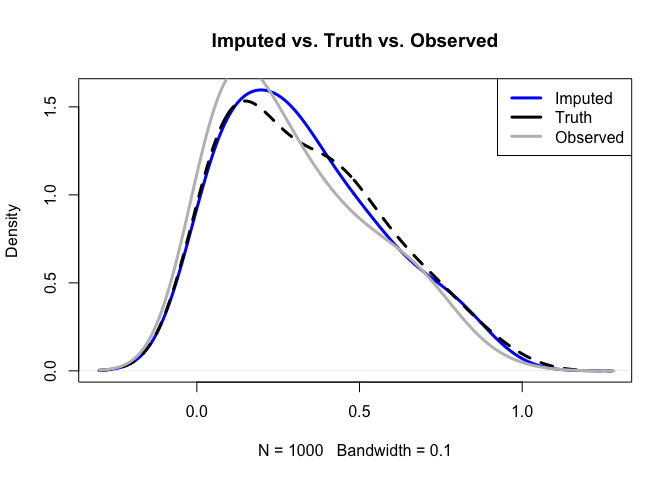
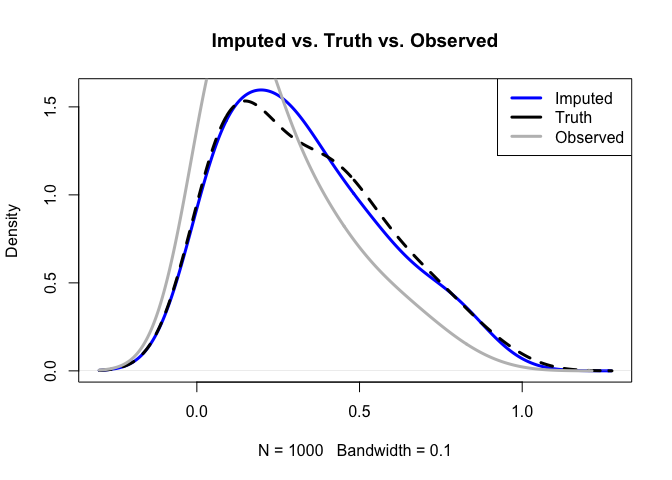
latex render

diff --git a/README.md b/README.md
@@ -60,7 +60,7 @@ $\boldsymbol Y_{ij}$ for $R^{2}_{ij}>0$.
   print("Missingness in Each Y_j:")
 #> [1] "Missingness in Each Y_j:"
   print(colMeans(R))
-#> [1] 0.513 0.491 0.491 0.496 0.498
+#> [1] 0.487 0.503 0.497 0.539 0.531
 
   # Now we'll create the study variables. Here we use gamma, t, and beta marginals 
   
@@ -97,27 +97,27 @@ $\boldsymbol Y_{ij}$ for $R^{2}_{ij}>0$.
       print("Summary of (Y^obs, R)")
 #> [1] "Summary of (Y^obs, R)"
       print(summary(Y_obs))
-#>       Y_j              Y_j               Y_j              Y_j        
-#>  Min.   :0.0034   Min.   : 0.4338   Min.   :0.0010   Min.   :0.0003  
-#>  1st Qu.:0.4099   1st Qu.: 2.2353   1st Qu.:0.1119   1st Qu.:0.1888  
-#>  Median :0.8528   Median : 3.0100   Median :0.2414   Median :0.4410  
-#>  Mean   :1.1917   Mean   : 3.2933   Mean   :0.2997   Mean   :0.7100  
-#>  3rd Qu.:1.5709   3rd Qu.: 4.1354   3rd Qu.:0.4652   3rd Qu.:1.0268  
-#>  Max.   :8.9102   Max.   :11.0629   Max.   :0.9814   Max.   :5.3285  
-#>  NA's   :513      NA's   :491       NA's   :491      NA's   :496     
-#>       Y_j                V6              V7              V8       
-#>  Min.   :-0.6383   Min.   :0.000   Min.   :0.000   Min.   :0.000  
-#>  1st Qu.: 1.3592   1st Qu.:0.000   1st Qu.:0.000   1st Qu.:0.000  
-#>  Median : 2.1056   Median :1.000   Median :0.000   Median :0.000  
-#>  Mean   : 2.4125   Mean   :0.513   Mean   :0.491   Mean   :0.491  
-#>  3rd Qu.: 3.1504   3rd Qu.:1.000   3rd Qu.:1.000   3rd Qu.:1.000  
-#>  Max.   :14.2760   Max.   :1.000   Max.   :1.000   Max.   :1.000  
-#>  NA's   :498                                                      
+#>       Y_j              Y_j              Y_j              Y_j        
+#>  Min.   :0.0019   Min.   :-2.867   Min.   :0.0000   Min.   :0.0003  
+#>  1st Qu.:0.1740   1st Qu.: 1.185   1st Qu.:0.0859   1st Qu.:0.1449  
+#>  Median :0.4504   Median : 1.925   Median :0.1905   Median :0.3743  
+#>  Mean   :0.6891   Mean   : 2.187   Mean   :0.2453   Mean   :0.6436  
+#>  3rd Qu.:0.9303   3rd Qu.: 2.891   3rd Qu.:0.3696   3rd Qu.:0.8697  
+#>  Max.   :4.4953   Max.   :15.932   Max.   :0.9145   Max.   :5.4132  
+#>  NA's   :487      NA's   :503      NA's   :497      NA's   :539     
+#>       Y_j               V6              V7              V8       
+#>  Min.   :-1.665   Min.   :0.000   Min.   :0.000   Min.   :0.000  
+#>  1st Qu.: 0.763   1st Qu.:0.000   1st Qu.:0.000   1st Qu.:0.000  
+#>  Median : 1.276   Median :0.000   Median :1.000   Median :0.000  
+#>  Mean   : 1.285   Mean   :0.487   Mean   :0.503   Mean   :0.497  
+#>  3rd Qu.: 1.846   3rd Qu.:1.000   3rd Qu.:1.000   3rd Qu.:1.000  
+#>  Max.   : 3.738   Max.   :1.000   Max.   :1.000   Max.   :1.000  
+#>  NA's   :531                                                     
 #>        V9             V10       
 #>  Min.   :0.000   Min.   :0.000  
 #>  1st Qu.:0.000   1st Qu.:0.000  
-#>  Median :0.000   Median :0.000  
-#>  Mean   :0.496   Mean   :0.498  
+#>  Median :1.000   Median :1.000  
+#>  Mean   :0.539   Mean   :0.531  
 #>  3rd Qu.:1.000   3rd Qu.:1.000  
 #>  Max.   :1.000   Max.   :1.000  
 #> 
@@ -136,12 +136,11 @@ information specified by the user:
   this example we have $\texttt{ncolR} = 5$
 - **aux_quantiles**: auxiliary quantiles assumed known for each study
   variable. This is a list of length $\texttt{ncolY}$, where the
-  aux_quantiles\[\[j\]\] $=[0,(\tau_{j}^{q})_{q=2}^{l_{j}-1},...,1]$,
-  i.e. there are $\ell_{j}+2$ auxiliary quantiles assumed known for each
-  variable. Note that $\ell_{j}$, the number of auxiliary quantiles for
-  each variable, may be unique, while $\tau^{1}_{j} = 0$ and
-  $\tau^{\ell_{j}} = 1$. aux_quantiles\[\[j\]\] is null, empirical
-  deciles will be used.
+  aux_quantiles\[\[j\]\] $=[0,(\tau),...,1]$, i.e. there are
+  $\ell_{j}+2$ auxiliary quantiles assumed known for each variable. Note
+  that $\ell_{j}$, the number of auxiliary quantiles for each variable,
+  may be unique, while $\tau^{1}_{j} = 0$ and $\tau^{\ell_{j}} = 1$.
+  aux_quantiles\[\[j\]\] is null, empirical deciles will be used.
 - **aux_infos**: This is a list of length $\texttt{ncolY}$ where
   aux_infos\[\[j\]\]
   $= [F_{j}^{-1}(0),(F_{j}^{-1}(\tau_{j}^{q}))_{q=2}^{\ell_{j}-1},...,F_{j}^{-1}(1)]$
